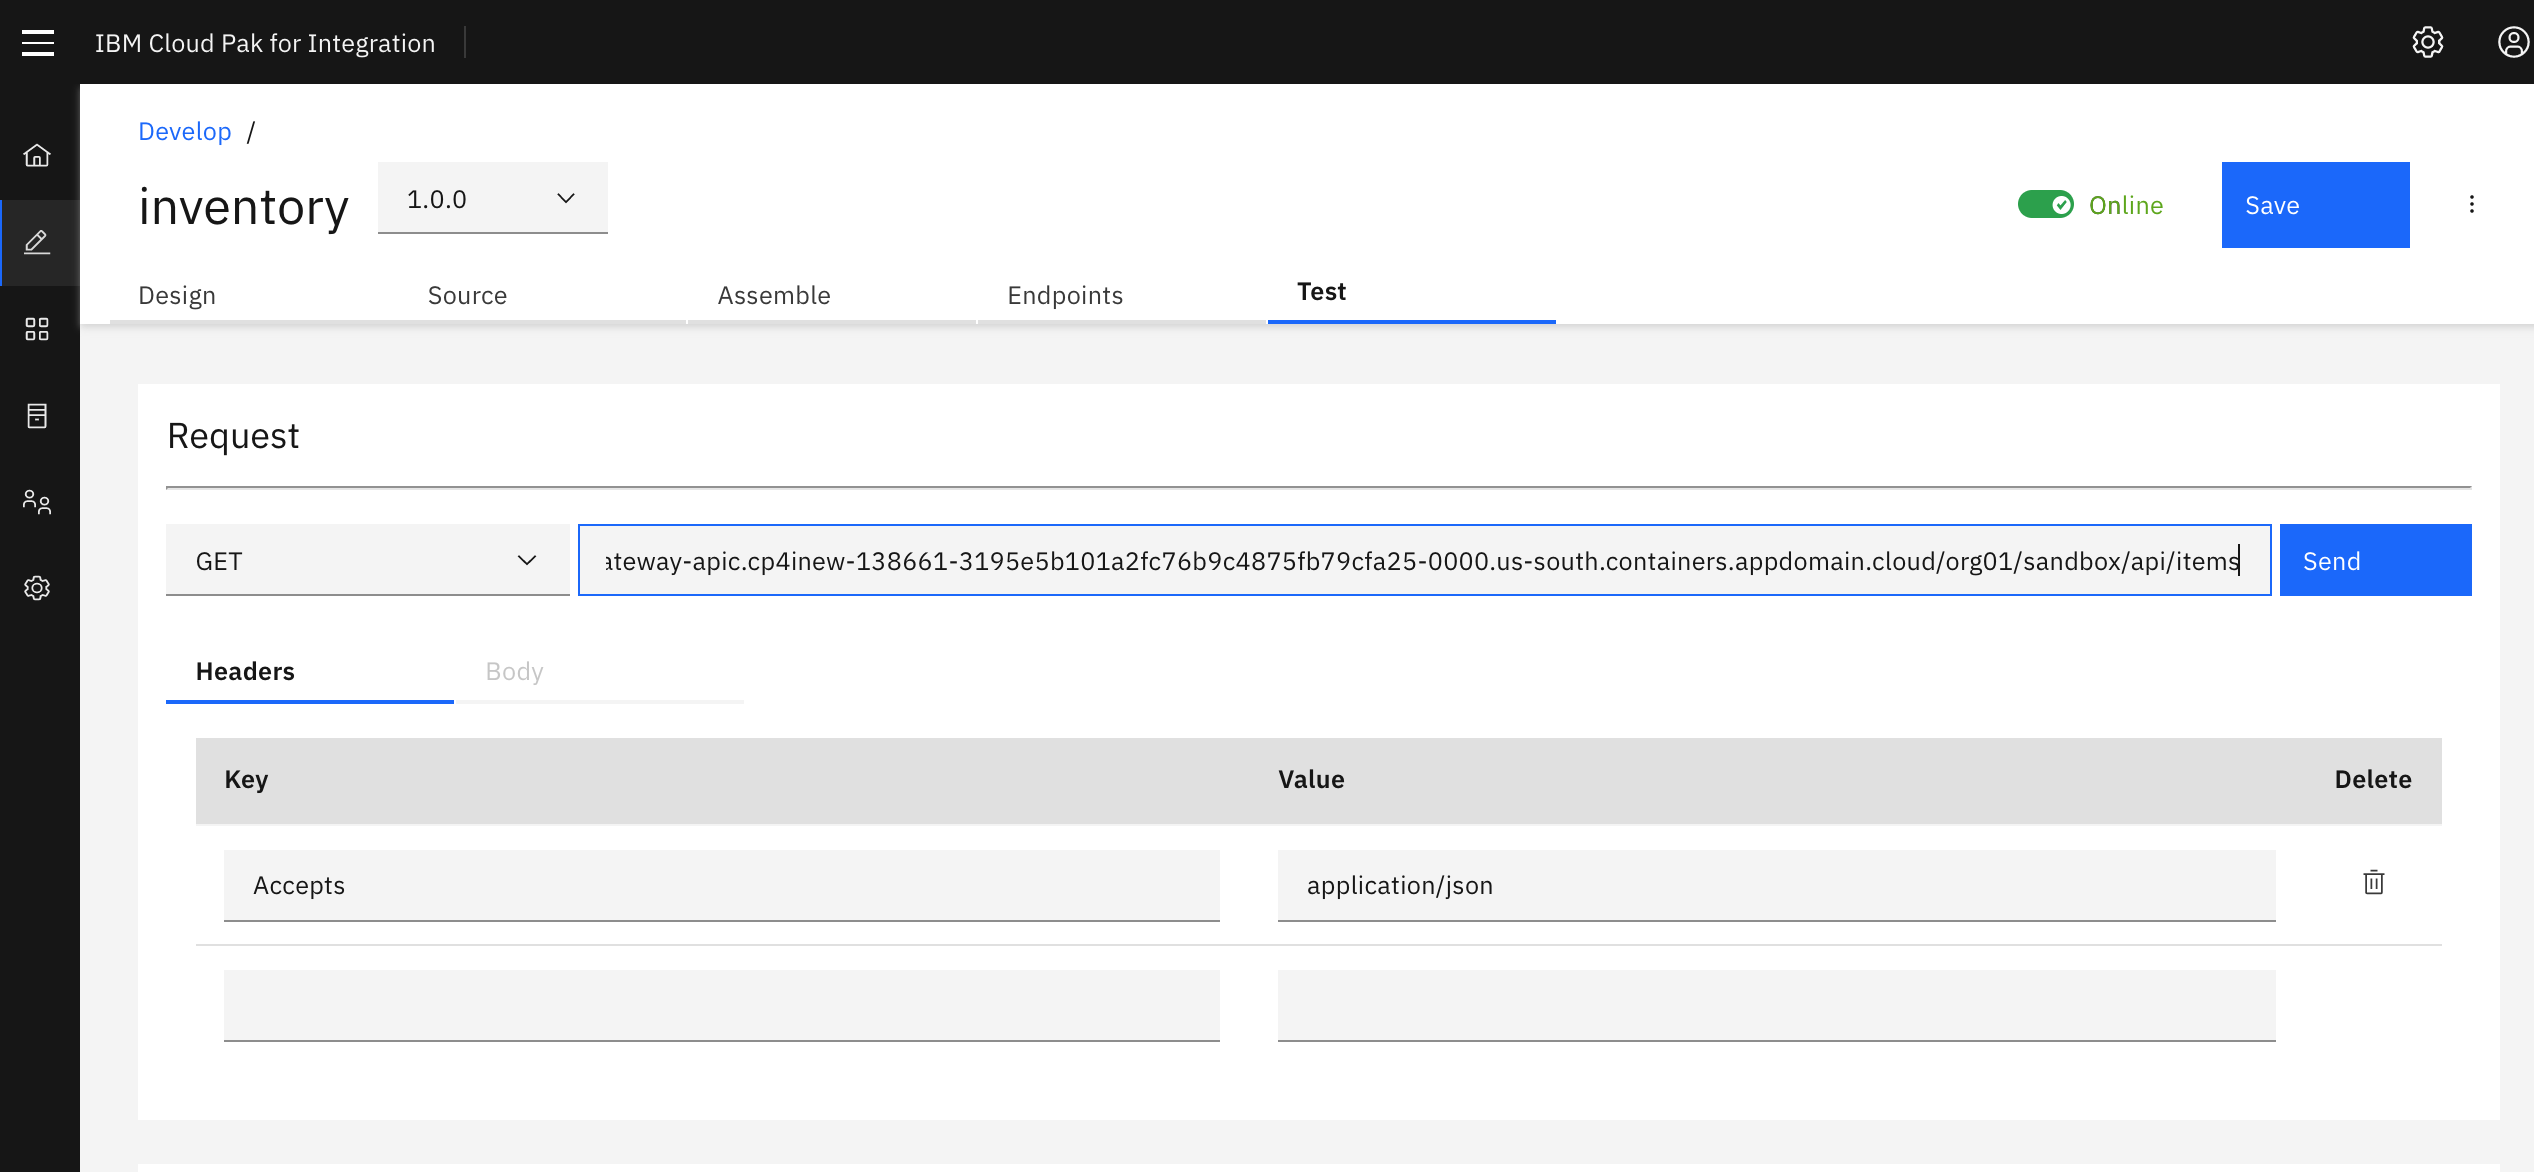
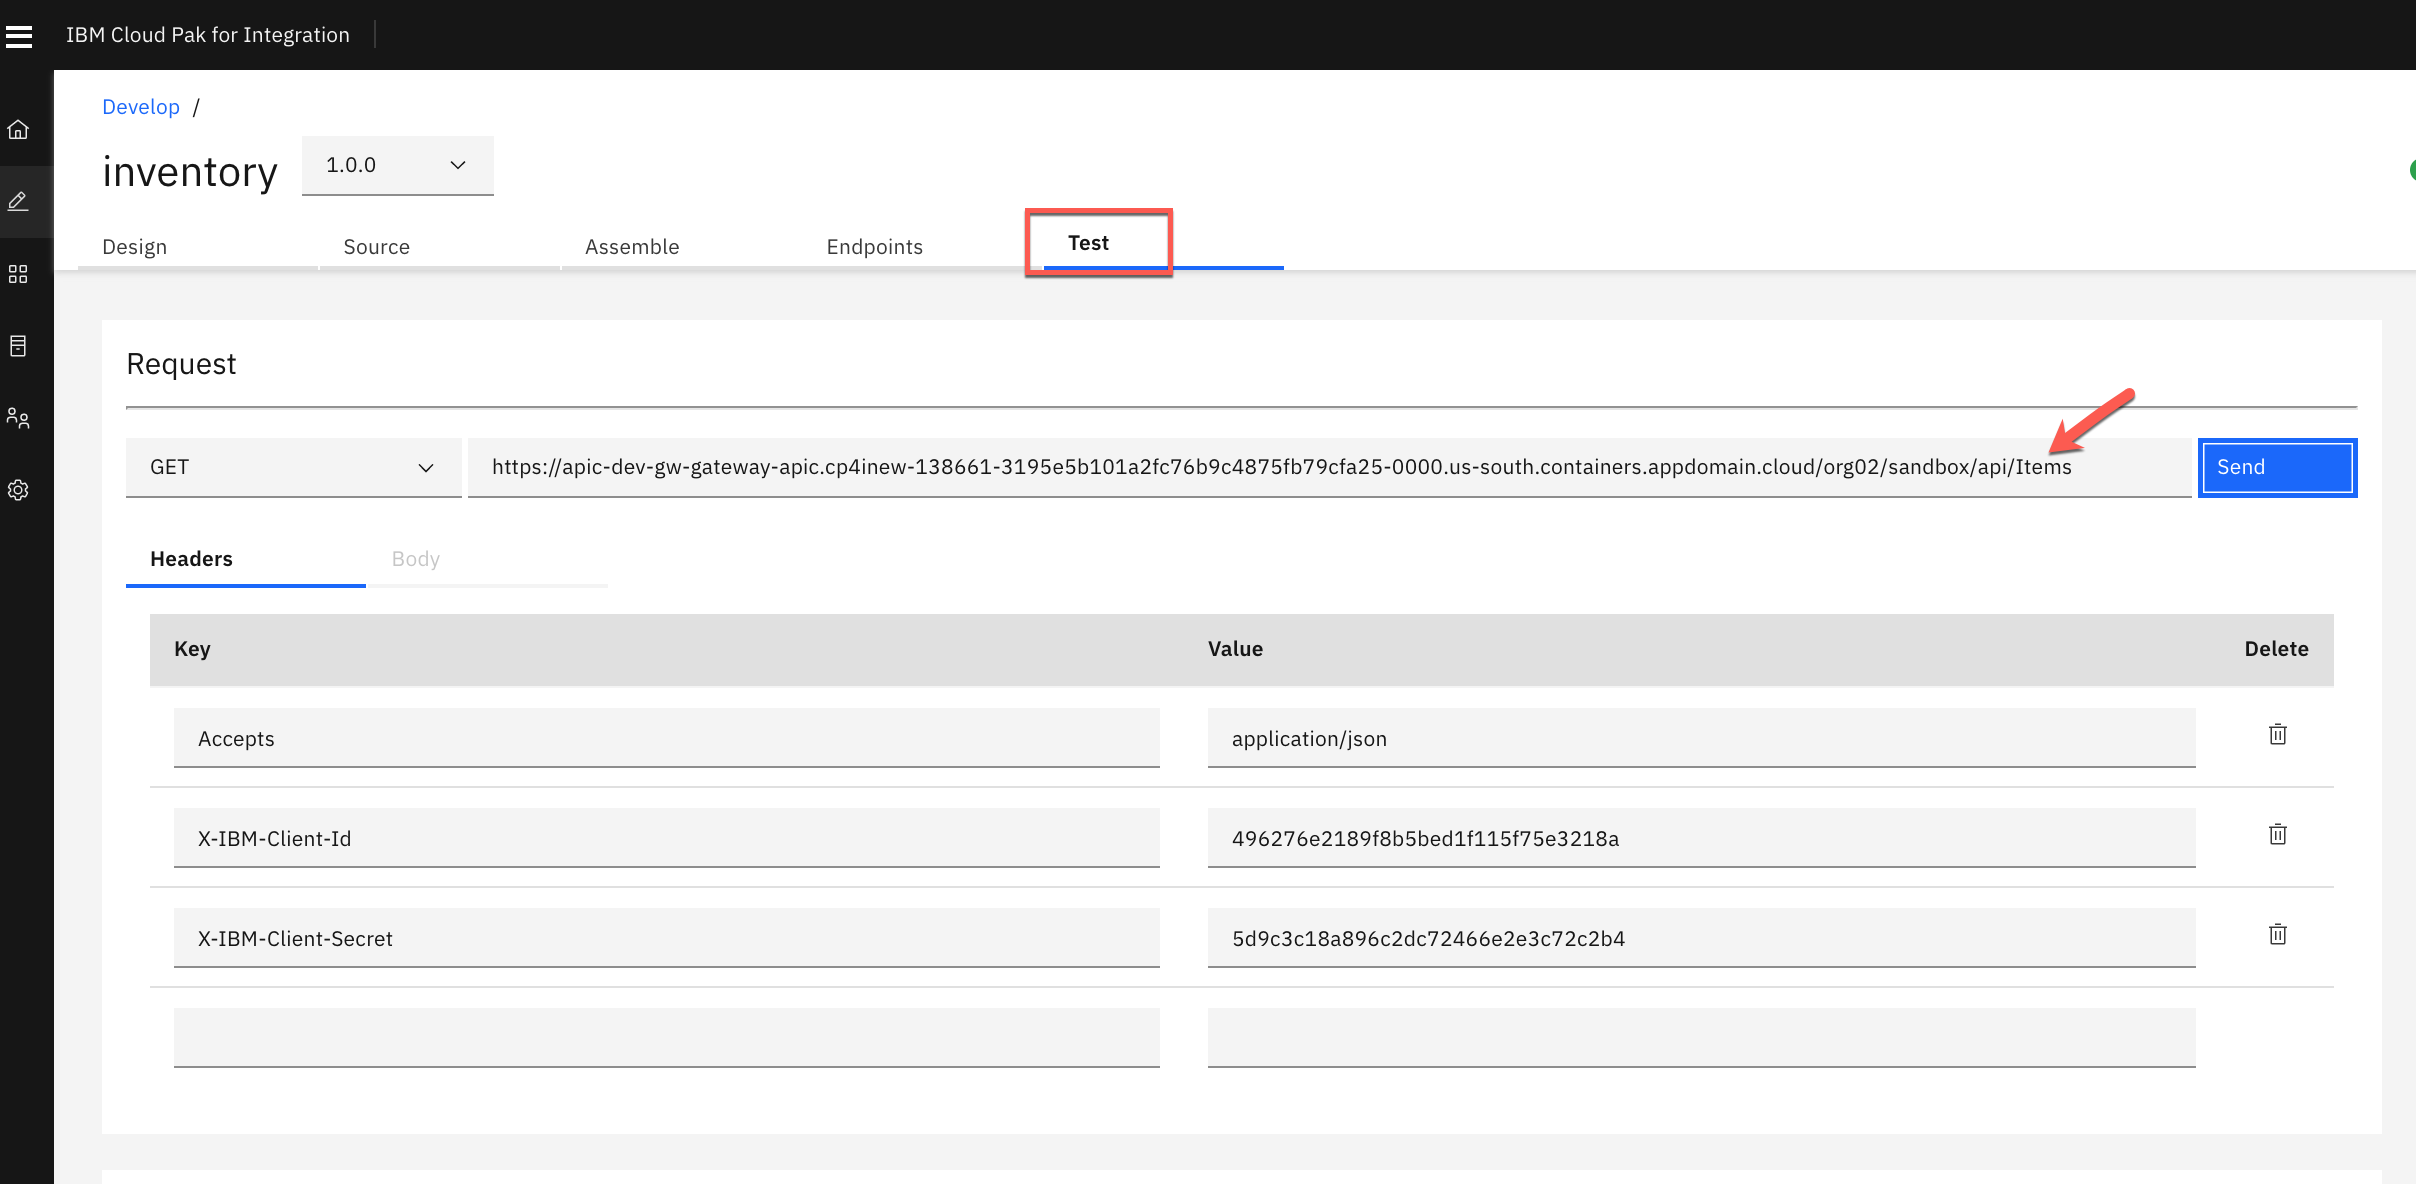
Lab1 updated

Changed region(s): [[0.0, 0.0, 1.0, 1.0], [0.9934, 0.1229, 1.0, 0.1536], [0.9313, 0.7372, 0.9623, 0.7679]]

diff --git a/APICDevJam/Lab1/index.md b/APICDevJam/Lab1/index.md
@@ -275,8 +275,7 @@ after creation in the Assemble view!
     should look like the image below.
     ![](images/tutorial_html_a35d4b82b4aa8b10.png)
 
-4.  Under **[Test]** choose **[get
-    /Items.]**
+4.  Choose **[Test]** tab and append **[/Items]** to the URL as shown below.
 
 ![](images/tutorial_html_5e2c8cff09f77c58.png)
 
